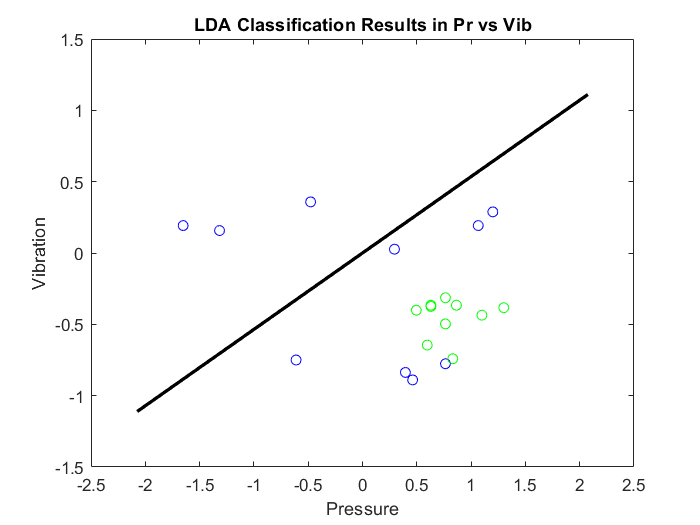
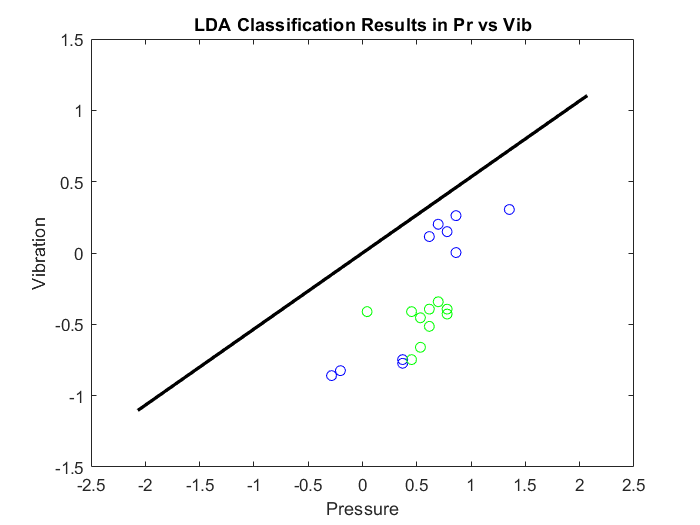
changes 66

diff --git a/section_C_Qd.m b/section_C_Qd.m
@@ -94,7 +94,7 @@ Sw = Sw + cov(class2Data);
 
 % calculate Sb
 meanDiffBetween = (meanClass1 - meanClass2)';
-Sb = (meanDiffBetween * meanDiffBetween') * size(class1Data, 1);
+Sb = (meanDiffBetween' * meanDiffBetween) * size(class1Data, 1);
 
 % eigen
 [eigenVectors, eigenValues] = eig(inv(Sw) * Sb);
